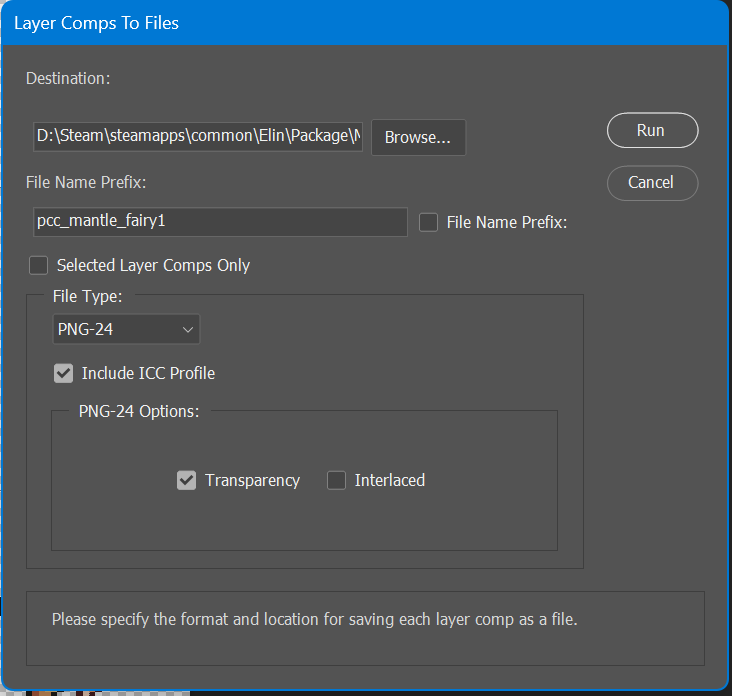
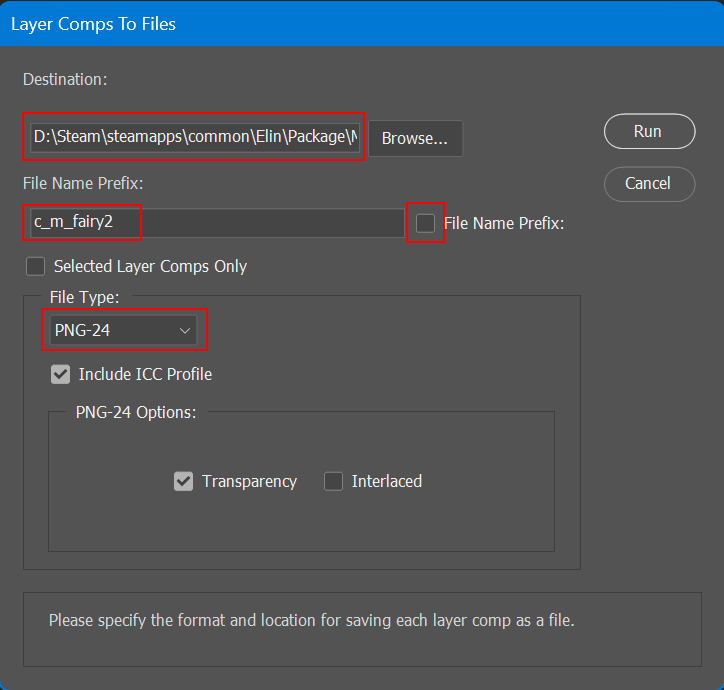
Showcase and comparison images. Updated layer comps tutorial.

diff --git a/README.md b/README.md
@@ -4,28 +4,39 @@
 ![Version Badge](https://img.shields.io/badge/version-1.0.0-blue)
 ![GitHub License](https://img.shields.io/github/license/n15g/elin-fairies)
 
-Fairy PCC mod for [Elin](https://store.steampowered.com/app/2135150/Elin/)
+### Fairy PCC mod for [Elin](https://store.steampowered.com/app/2135150/Elin/)
+Adds new, smaller portraits and sprites for fairy characters.
 
-#### Unwrap Layer Comps
+![Layer Comps](site/comparison.gif)
 
-Photoshop's layer comps are really useful for outputting linked sprites, but don't let you modify the
-output filename meaningfully. This script unfolds the output layers to match Elin's format.
+![Layer Comps](site/sprite_showcase.gif)
 
-To unwrap the layer comps:
 
-1. Set up Layer Comps via Window -> Layer Comps
+### Dev Tools
+
+* **Photoshop** - Portrait source files are in `.psd` format.
+* **[Aseprite](https://www.aseprite.org/)** - PCC sprites are in `*.ase` format.
+* **Python** - Build scripts and various tooling.
+
+### Portrait Layer Comps
+
+Photoshop Layer Comps are used to output the overlay images for portraits.
+Unfortunately the output options don't work well with Elin's naming convention, so there's
+a small python script to rename the default filenames.
+
+To export a portrait:
+
+1. In Photoshop, `Window -> Layer Comps`
    ![Layer Comps](site/layer_comps1.png)
-2. In Photoshop, File -> Export -> Layer Comps to Files...
+   You'll want two comps for a portrait:
+   1. `base` - All visible layers on, this is your base portrait.
+   2. `overlay` - Only the hair overlay layers enabled.
+2. In Photoshop, `File -> Export -> Layer Comps to Files...`
    ![Layer Comps](site/layer_comps2.png)
-3. Rune the script `dev/unfold.py`
-
-```
-# Portraits
-[base]      c_<base>_base.png -> c_<base>.png
-[overlay]   c_<base>_overlay.png -> c_<base>-overlay.png
-
-# Mantles
-[base]      pcc_mantle_<base>_base.png -> pcc_mantle_<base>.png
-[back]      pcc_mantle_<base>_back.png -> pcc_mantlebk_<base>.png
-```
-
+   1. Set the `Destination` to the `Portrait` folder.
+   2. Set the `File Name Prefix` to the portrait name.
+   3. Un-check the `File Name Prefix` checkbox.
+   4. Set the `File Type` to `PNG-24.
+   5. Hit `Run`.
+3. Run the Python script `dev/rename_layer_comps.py`
+   ```python dev/rename_layer_comps.py```
